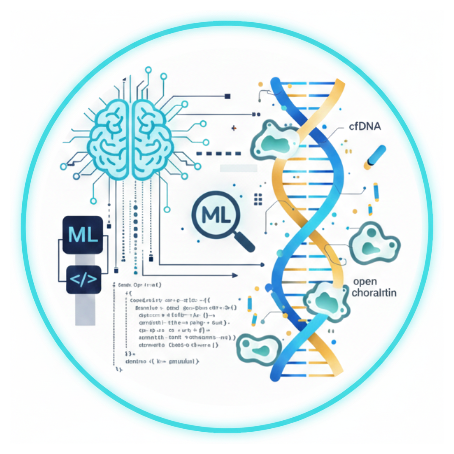
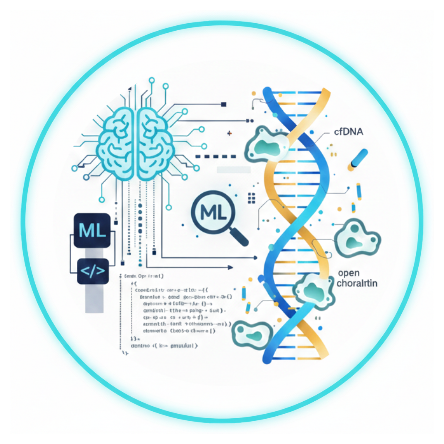
landing page udpate

diff --git a/docs/index.html b/docs/index.html
@@ -182,7 +182,7 @@ ul.task-list li input[type="checkbox"] {
   <div class="about-contents"><main class="content" id="quarto-document-content">
 <section id="welcome" class="level3">
 <h3 data-anchor-id="welcome">Welcome!</h3>
-<p>I am a Research Engineer/Scientist, I build end-to-end AI systems for health from data aquisition and hardware–AI co-design to representation learning and deployment. My work integrates multiple biomedical data modalities, and more recently, generative models to uncover clinically meaningful digital biomarkers and enable scalable, data-driven healthcare.</p>
+<p>I view the human body as the most sophisticated engineered system we know. My work combines electronics, embedded systems, biomedical data, and AI to understand this complexity, identify meaningful patterns, and translate them into real-world health insights</p>
 
 
 </section>
